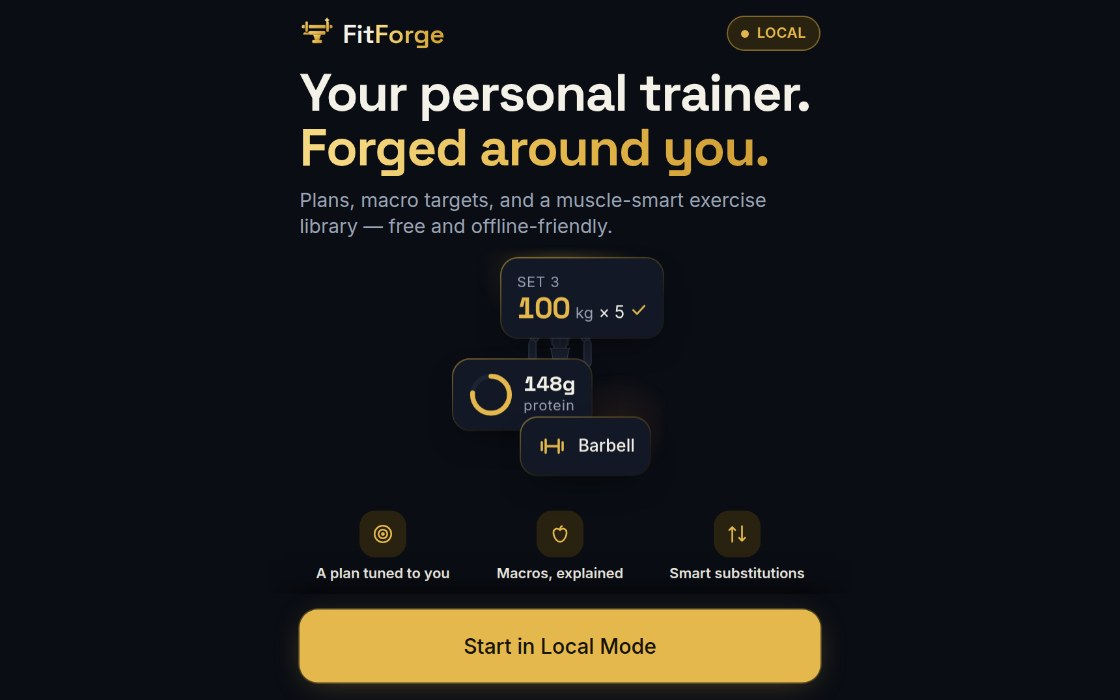
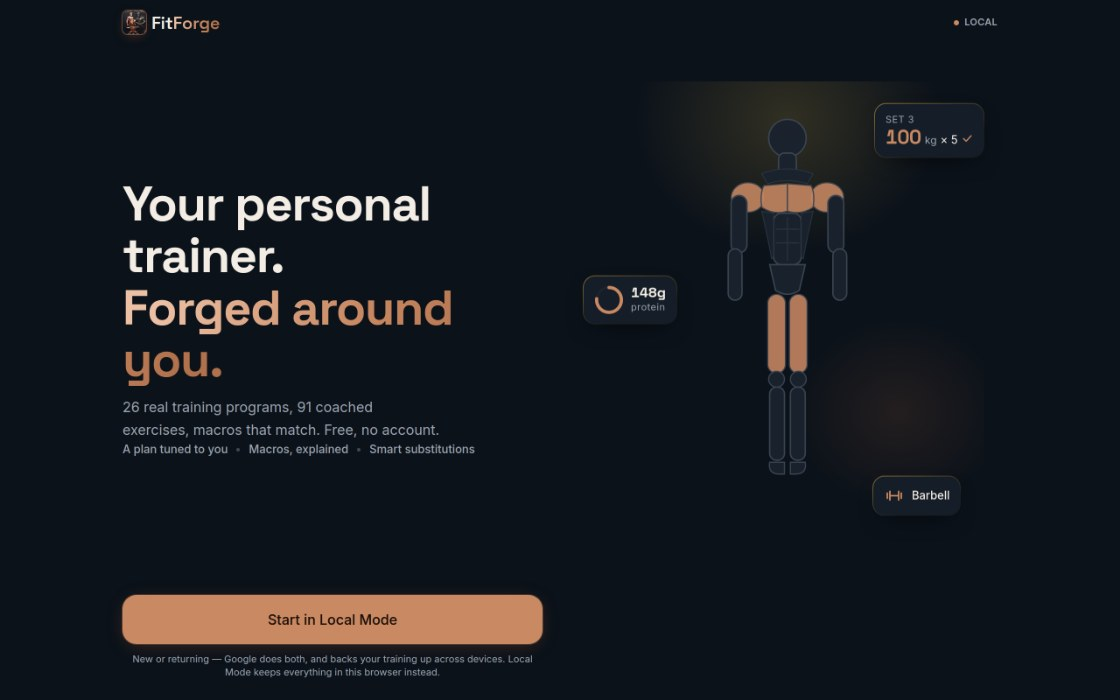
Recapture the YouTube Briefings and FitForge snapshots
Both projects were rebuilt, so their cards were stale.

YouTube Briefings is now a real screenshot of the dashboard rather than
the project's brand card. Its site is generated at deploy time and has no
committed HTML, so the previous pass fell back to docs/share-card.png.
This run instead executes the same command its deploy workflow runs —
builder.build_dashboard() — against the committed tracker DB, producing
the actual dashboard (206 analyzed videos) and screenshotting that. The
site has also been rebranded to Girnar Holdings, which the old card
predated.

FitForge picks up its forge-copper rebrand: new mark, copper accent in
place of the old amber, and new hero copy. Captured at 1280x800 because
the floating set and protein readouts collide at narrower widths.

Two capture details worth keeping:

  - YouTube Briefings pulls thumbnails and avatars from i.ytimg.com and
    yt3.googleusercontent.com, both blocked here though fine for real
    visitors. Shipping a card full of broken-image glyphs would
    misrepresent the live site as broken, so the capture hides images
    that failed to load and frames on the header, Creator Pulse and
    creator filters, which render completely. An 860px viewport pushes
    the video grid below the fold and does this naturally.
  - Its alt text described the old gold title card and would have been
    actively wrong for a dashboard; rewritten to match what is now shown.

Footer capture date widened to 27-29 Jul to stay accurate.
[…]

diff --git a/index.html b/index.html
@@ -859,7 +859,7 @@ body[data-view="floor"] .dot {
       <article class="card reveal">
         <div class="card-media">
           <img src="assets/shots/yt-briefings.jpg" width="1120" height="700" loading="lazy" decoding="async"
-               alt="The YouTube Briefings title card: a gold lightning bolt beside the words YouTube Briefings by ZeusBot." />
+               alt="The YT-Briefing dashboard: a Latest Video Highlights header above a Creator Pulse panel of trailing-7-day themes and a row of creator filter chips." />
         </div>
         <div class="card-body">
           <p class="card-kicker">Creator-list intelligence</p>
@@ -974,7 +974,7 @@ body[data-view="floor"] .dot {
       <a class="plaque reveal" href="https://girnarholdings.github.io/FitForge/" target="_blank" rel="noopener">
         <div class="plaque-media">
           <img src="assets/shots/fitforge.jpg" width="1120" height="700" loading="lazy" decoding="async"
-               alt="The FitForge app: the headline Your personal trainer, forged around you, above an illustrated figure with highlighted muscle groups." />
+               alt="The FitForge app: the headline Your personal trainer, forged around you, beside an illustrated figure with highlighted muscle groups and floating set and protein readouts." />
         </div>
         <div class="plaque-body">
           <p class="plaque-room">The Training Room · web &amp; iOS</p>
@@ -1031,7 +1031,7 @@ body[data-view="floor"] .dot {
 
 <footer class="foot wrap">
   <span>Girnar Holdings · project map</span>
-  <span>Screenshots captured 27 Jul 2026</span>
+  <span>Screenshots captured 27–29 Jul 2026</span>
 </footer>
 
 <script>

diff --git a/README.md b/README.md
@@ -107,12 +107,18 @@ blocks `*.github.io` and cannot reach the live sites directly:
 | `gh-pages` branch (deployed output committed) | BoltNews, BoltFactors, Earnings Screener, BetNews |
 | Static site committed on `main` | Equity Screener (`docs/`), VibeNYC (`site/`), Grand Atlantic (`gateway/`) |
 | Built from source locally (`npm ci`, Next.js static export) | FitForge |
-| Project's own committed brand card | YouTube Briefings (`docs/share-card.png`) |
+| Generated from source locally (`python -c "from src import builder; builder.build_dashboard()"`, the same command its deploy workflow runs) | YouTube Briefings |
 
 Caveats worth knowing before regenerating them:
 
-- Two sites load webfonts from Google Fonts, which the sandbox also blocks, so those
+- Several sites load webfonts from Google Fonts, which the sandbox also blocks, so those
   screenshots render in fallback faces and differ very slightly from production.
+- YouTube Briefings embeds video thumbnails and channel avatars from `i.ytimg.com` and
+  `yt3.googleusercontent.com`, both of which are blocked here. Those images load fine for real
+  visitors. Rather than ship a card full of broken-image glyphs — which would misrepresent the
+  live site as broken — the capture hides any image that failed to load and frames the card on
+  the header, Creator Pulse and creator filters, which render completely. Narrowing the capture
+  viewport to 860 px pushes the video grid below the fold and does this naturally.
 - Grand Atlantic opens on a splash screen; its screenshot is taken after clicking through to
   the training floor, which is the view worth showing.
 - The screenshots are point-in-time. Dashboards that publish daily will have moved on — the
